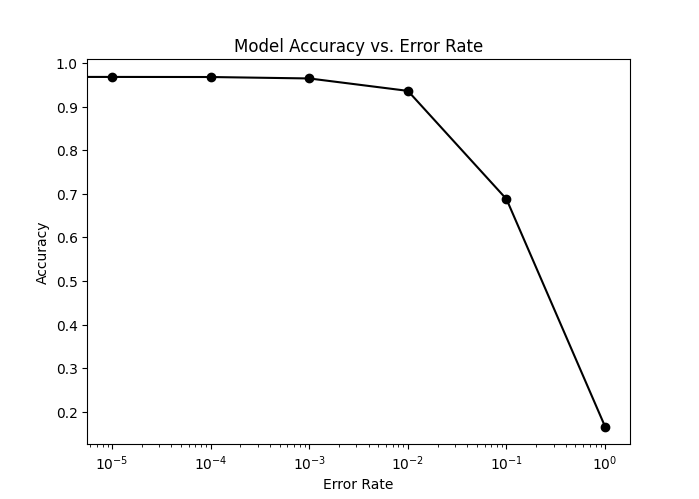
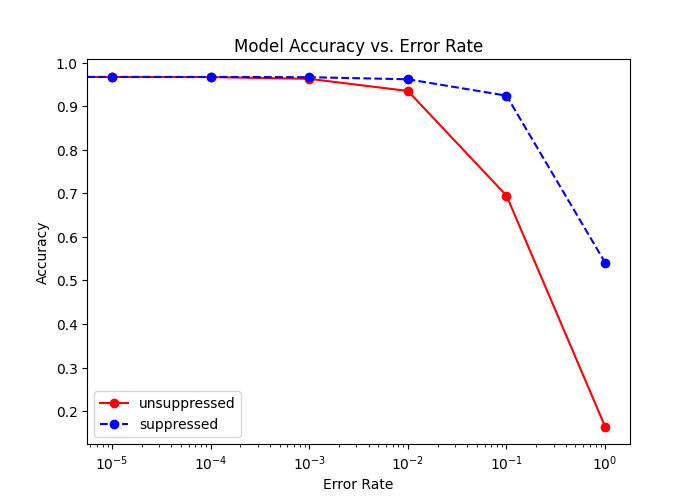
prove zeroing at fault

diff --git a/weight_pruning.py b/weight_pruning.py
@@ -104,7 +104,7 @@ else:
 
         print(f"Epoch [{epoch+1}/{num_epochs}], Loss: {loss.item():.4f}")
 
-    fine_tune_iterations = 10
+    fine_tune_iterations = 0
 
     masks = {}
 
@@ -132,9 +132,10 @@ else:
 
 count_zero_nonzero_weights(model)
 
-def plot_accuracy(model, tests, suppress_errors=False):
+def plot_accuracy_no_correction_vs_correction(model, tests):
     error_rates = [0, 0.00001, 0.0001, 0.001, 0.01, 0.1, 1]
-    accuracies = []
+    unsupressed_accuracies = []
+    suppressed_accuracies = []
 
     model.eval()
     for error_rate in error_rates:
@@ -143,19 +144,34 @@ def plot_accuracy(model, tests, suppress_errors=False):
         with torch.no_grad():
             for images, labels in tests:
                 images, labels = images.to(device), labels.to(device)
-                outputs = model(images, inject_faults=True, suppress_errors=suppress_errors, error_rate=error_rate)
+                outputs = model(images, inject_faults=True, suppress_errors=False, error_rate=error_rate)
                 _, predicted = torch.max(outputs, 1)
                 total += labels.size(0)
                 correct += (predicted == labels).sum().item()
         accuracy = correct / total
-        print(f"Test Accuracy with Error Rate {error_rate:.3f}: {100. * accuracy:.2f}%")
-        accuracies.append(accuracy)
+        print(f"Test Accuracy with Error Rate {error_rate}: {100. * accuracy:.2f}%")
+        unsupressed_accuracies.append(accuracy)
+
+        correct = 0
+        total = 0
+        with torch.no_grad():
+            for images, labels in tests:
+                images, labels = images.to(device), labels.to(device)
+                outputs = model(images, inject_faults=True, suppress_errors=True, error_rate=error_rate)
+                _, predicted = torch.max(outputs, 1)
+                total += labels.size(0)
+                correct += (predicted == labels).sum().item()
+        accuracy = correct / total
+        print(f"Test Accuracy with Error Rate {error_rate}: {100. * accuracy:.2f}%")
+        suppressed_accuracies.append(accuracy)
         
     plt.figure(figsize=(7, 5))
-    plt.plot(error_rates, accuracies, marker='o', linestyle='-', color='black')
+    plt.plot(error_rates, unsupressed_accuracies, marker='o', linestyle='-', color='red', label='unsuppressed')
+    plt.plot(error_rates, suppressed_accuracies, marker='o', linestyle='--', color='blue', label='suppressed')
     plt.xscale('log')
     plt.xlabel("Error Rate")
     plt.ylabel("Accuracy")
+    plt.legend()
     plt.title("Model Accuracy vs. Error Rate")
     plt.show()
 
@@ -189,8 +205,6 @@ with torch.no_grad():
 accuracy = 100 * correct / total
 print(f"Test Accuracy with Error Rate 0.1: {accuracy:.2f}%")
 
-# plot_accuracy(model, test_loader)
-
 correct = 0
 total = 0
 with torch.no_grad():
@@ -209,4 +223,4 @@ with torch.no_grad():
 accuracy = 100 * correct / total
 print(f"Test Accuracy with Error Correction: {accuracy:.2f}%")
 
-# plot_accuracy(model, test_loader, suppress_errors=True)
+plot_accuracy_no_correction_vs_correction(model, test_loader)

diff --git a/model.py b/model.py
@@ -4,7 +4,7 @@ import torch.nn.functional as F
 import numpy as np
 
 class MNISTClassifier(nn.Module):
-    def __init__(self, input_size, hidden_size, num_classes, k=6, gamma=8):
+    def __init__(self, input_size, hidden_size, num_classes, k=5):
         super(MNISTClassifier, self).__init__()
         # architecture
         self.input_size = input_size
@@ -14,7 +14,6 @@ class MNISTClassifier(nn.Module):
 
         # fault injection
         self.k = k
-        self.gamma = gamma
         self.mean_grad = {}
         self.var_grad = {}
         self.num_updates = {}
@@ -104,12 +103,17 @@ class MNISTClassifier(nn.Module):
         upper_bound = mean_grad_tensor + self.k * std_grad_tensor
 
         layer_unsqeueezed = layer.unsqueeze(1)
-        kernel = torch.tensor([-1.0, 1.0, 0.0]).view(1, 1, 3)
-        grad_Y = F.conv1d(layer_unsqeueezed, kernel.to(layer.device), padding=1).squeeze(1)
+        left_kernel = torch.tensor([-1.0, 1.0, 0.0]).view(1, 1, 3)
+        right_kernel = torch.tensor([0.0, 1.0, -1.0]).view(1, 1, 3)
+        left_grad = F.conv1d(layer_unsqeueezed, left_kernel.to(layer.device), padding=1).squeeze(1)
+        right_grad = F.conv1d(layer_unsqeueezed, right_kernel.to(layer.device), padding=1).squeeze(1)
 
-        mask = (grad_Y < lower_bound) | (grad_Y > upper_bound)
+        mask1 = ((left_grad < lower_bound) | (left_grad > upper_bound))
+        mask2 = ((right_grad < lower_bound) | (right_grad > upper_bound))
+        mask = mask1 & mask2
         new_layer = layer.clone()
-        for i in range(1, layer.size(0)):
-            new_layer[i, mask[i]] = mean_grad_tensor[mask[i]] + layer[i, mask[i]]
+        new_layer[mask] = 0
+        # print("old layer:", layer[0, mask[0]])
+        # print("new layer:", new_layer[0, mask[0]])
 
         return new_layer
